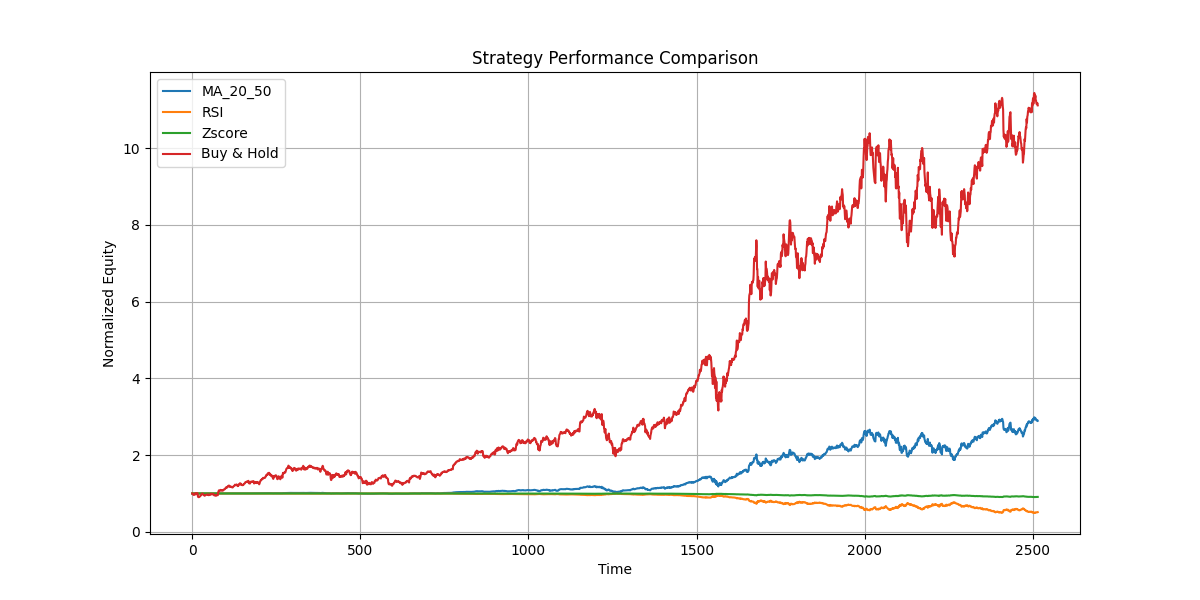
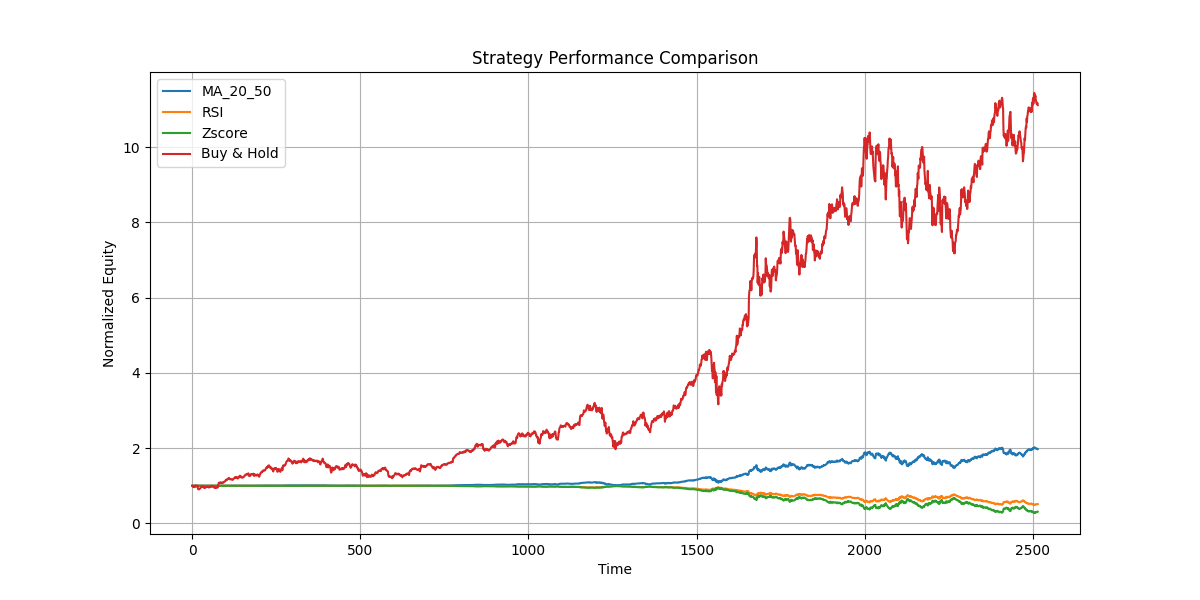
added cost

diff --git a/core/backtest_engine.py b/core/backtest_engine.py
@@ -1,3 +1,6 @@
+from config.config import TRANSACTION_COST
+import numpy as np
+
 class BacktestEngine:
     def __init__(self,data,strategies,signal_handler, execution,portfolio_factory):
         self.data =data
@@ -13,6 +16,7 @@ class BacktestEngine:
         
     def run(self):
         equity_curve = {name:[] for name in self.strategies.keys()}
+        turnover_curve = {name:[] for name in self.strategies.keys()}
         
         for i in range(len(self.data)):
             current_data = self.data.iloc[:i+1]
@@ -20,20 +24,31 @@ class BacktestEngine:
             
             for name,strategy in self.strategies.items():
         
-                signal_series =strategy.generate_signal(current_data)
-                signal = signal_series.iloc[-1]
-            
-                order = self.signal_handler.generate_order(signal)
-                fill_price = self.execution.execute_order(order,price)
-            
+                signal=strategy.generate_signal(current_data)
+                
+                portfolio = self.portfolios[name]
+                old_pos = portfolio.position
+    
+                order = signal
+                
+                # Execute order
+                exec_price = price + TRANSACTION_COST * price * np.sign(order)
+                
                 #update portfolio 
-                portfolio =self.portfolios[name]
-                portfolio.update(order,fill_price)
+                portfolio.update(order, exec_price)
+                
+                new_pos = portfolio.position
+                
+                # Track turnover
+                turnover = abs(new_pos- old_pos)
+                turnover_curve[name].append(turnover)
             
                 #Equity curve
-                equity = portfolio.get_equity(price)
+                equity = portfolio.cash + portfolio.position * price
                 equity_curve[name].append(equity)
+                # print(name, signal, portfolio.position)
+                # print(name, portfolio.cash, portfolio.position)
                 
             
-        return equity_curve
+        return equity_curve, turnover_curve
     

diff --git a/strategies/moving_average.py b/strategies/moving_average.py
@@ -1,4 +1,5 @@
 from .base_strategy import BaseStrategy
+import numpy as np
 
 class MovingAverageStrategy(BaseStrategy):
     def __init__(self, short_window, long_window):
@@ -6,8 +7,18 @@ class MovingAverageStrategy(BaseStrategy):
         self.long_window = long_window
         
     def generate_signal(self,data):
-        short_ma = data['close'].rolling(self.short_window).mean()
-        long_ma = data['close'].rolling(self.long_window).mean()
+        if len(data) < self.long_window:
+            return 0
         
-        signal = (short_ma > long_ma).astype(int)
-        return signal
+        short_ma = data['close'].rolling(self.short_window).mean().iloc[-1]
+        long_ma = data['close'].rolling(self.long_window).mean().iloc[-1]
+        
+        if np.isnan(short_ma) or np.isnan(long_ma):
+            return 0
+        
+        if short_ma > long_ma:
+            return 1
+        elif short_ma < long_ma:
+            return -1
+        else:
+            return 0

diff --git a/strategies/mean_revision.py b/strategies/mean_revision.py
@@ -1,13 +1,22 @@
+import numpy as np
 class ZscoreStrategy:
     def __init__(self, window=20):
         self.window = window
 
     def generate_signal(self, data):
-        mean = data['close'].rolling(self.window).mean()
-        std = data['close'].rolling(self.window).std()
+        price = data['close']
         
-        z = (data['close'] - mean) / std
+        mean =  price.rolling(self.window).mean().iloc[-1] 
+        std = price.rolling(self.window).std().iloc[-1]
         
-        signal = (-1 * (z>2).astype(int)) + (1 * (z<-2).astype(int))
+        
+        if std == 0 or np.isnan(std):
+            return 0
+        
+        z = (price.iloc[-1] - mean) / (std + 1e-9)
+        
+        signal = -z
+        
+        signal = np.clip(signal, -1, 1)
+        
         return signal
-    

diff --git a/execution/execution_handler.py b/execution/execution_handler.py
@@ -1,11 +1,16 @@
 class ExecutionHandler:
-    def __init__(self,slippage=0.001,commission=0.001):
+    def __init__(self,slippage=0.0005,commission=0.0005):
         self.slippage = slippage
         self.commission = commission
     def execute_order(self,order,price):
-        if order == 'BUY':
-            price = price * (1 + self.slippage)
-        elif order == 'SELL':
-            price = price * (1 - self.slippage)
+        if order == 0:
+            return price
         
-        return price *(1+self.commission)
+        if order > 0:
+            fill_price = price * (1 + self.slippage)
+        else:
+            fill_price = price * (1 - self.slippage)
+            
+        cost = abs(order) * price * self.commission
+        
+        return fill_price + cost

diff --git a/strategies/momentum_strategy.py b/strategies/momentum_strategy.py
@@ -1,3 +1,4 @@
+import numpy as np
 class RSIStrategy:
     def __init__(self, window=14):
         self.window = window
@@ -8,9 +9,17 @@ class RSIStrategy:
         gain = delta.clip(lower=0).rolling(self.window).mean()
         loss = -delta.clip(upper=0).rolling(self.window).mean()
         
-        rs = gain/loss
+        rs = gain/ (loss + 1e-9)
         rsi = 100 - (100/(1+rs))
         
-        signal = (rsi <30).astype(int) -(rsi>70).astype(int)
+        latest_rsi = rsi.iloc[-1]
         
-        return signal
+        if np.isnan(latest_rsi):
+            return 0
+        
+        if latest_rsi < 30:
+            return 1
+        elif latest_rsi > 70:
+            return -1
+        else:
+            return 0

diff --git a/main.py b/main.py
@@ -37,7 +37,7 @@ engine = BacktestEngine(
     )
 
 # Run backtest 
-equity_curve = engine.run()
+equity_curve, turnover_curve = engine.run()
 
 
 #add results to tracker
@@ -65,6 +65,11 @@ strategy_returns = compute_returns(raw_data)
 strategy_sharpe = sharpe_ratio(strategy_returns)
 strategy_dd = max_drawdown(raw_data)
 
+avg_turnover = {
+    name: np.mean(turnover) 
+    for name, turnover in turnover_curve.items()
+}
+
 
 #Visualization
 plot_data = {
@@ -80,5 +85,5 @@ performance_summary(raw_data)
 #Print performance summary
 print("Strategy Sharpe:", strategy_sharpe)
 print("Strategy Drawdown:", strategy_dd)
-
+print("Average Turnover:", avg_turnover)
 print("Buy & Hold Sharpe:", bh_sharpe)

diff --git a/portfolio/portfolio.py b/portfolio/portfolio.py
@@ -4,15 +4,13 @@ class Portfolio:
         self.position= 0 
         self.history = []
         
-    def update(self,order,price):
-        if order == "BUY":
-            self.position += 1
-            self.cash-=price
-        elif order == "SELL":
-            self.position-=1 
-            self.cash +=price
-        
-        self.history.append(self.cash + self.position * price)
+    def update(self,order,exec_price):
+        self.cash -= order * exec_price
+        self.position += order
     
     def get_equity(self,price):
         return self.cash + self.position * price
+    
+    def record(self,price):
+        equity = self.get_equity(price)
+        self.history.append(equity)

diff --git a/signals/signal_handler.py b/signals/signal_handler.py
@@ -1,9 +1,16 @@
 class SignalHandler:
-    def generate_order(self,signal):
-        if signal == 1:
-            return 'BUY'
-        elif signal == -1:
-            return 'SELL'
-        else:
-            return 'HOLD'
+    def generate_order(self, signal):
+        if isinstance(signal, str):
+            signal = signal.strip().upper()
+            if signal == "BUY":
+                return 1.0
+            elif signal == "SELL":
+                return -1.0
+            else:
+                return 0.0
+
+        try:
+            return float(signal)
+        except (TypeError, ValueError):
+            return 0.0
     

diff --git a/config/config.py b/config/config.py
@@ -1,3 +1,4 @@
 INITIAL_CASH = 100000
 SHORT_WINDOW = 20
 LONG_WINDOW = 50
+TRANSACTION_COST = 0.0005
